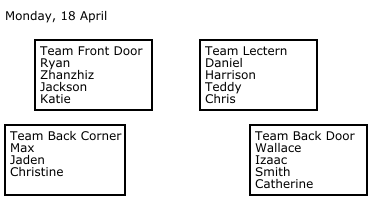
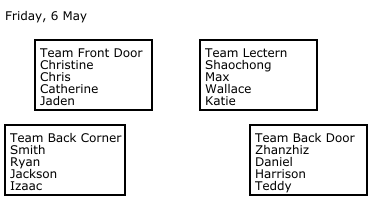
add student to P50

diff --git a/makeSmallGroups.py b/makeSmallGroups.py
@@ -33,7 +33,7 @@ def makeSmallGroups():
         yShift = ySize/2+20
         Teams_list = [
             ['Lectern',     [200, yShift- 30, 117, 70], 4],
-            ['Back Corner', [  5, yShift-115, 120, 70], 3],
+            ['Back Corner', [  5, yShift-115, 120, 70], 4],
             ['Back Door',   [250, yShift-115, 117, 70], 4],
             ['Front Door',  [ 35, yShift- 30, 117, 70], 4],
             ['Middle',      [125, yShift-115, 117, 70], 4]
@@ -93,8 +93,8 @@ def makeSmallGroups():
 
     os.system('/Applications/Inkscape.app/Contents/MacOS/inkscape teams_' + courseNumber + '.svg -o teams_' + courseNumber + '.png')
 
-    # if courseNumber=='M227C':
-    #     os.system('./sendToGithub.sh')
+    if courseNumber=='M227C':
+         os.system('./sendToGithub.sh')
 
 if __name__ == '__main__':
     makeSmallGroups()
